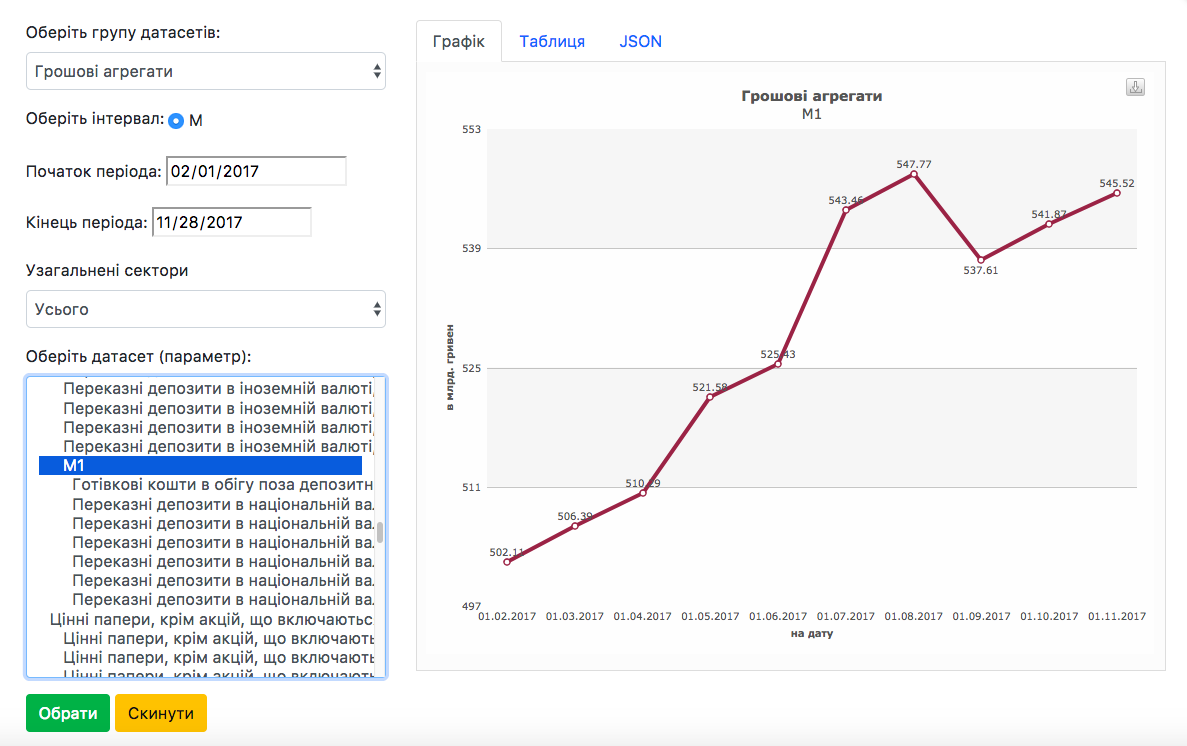
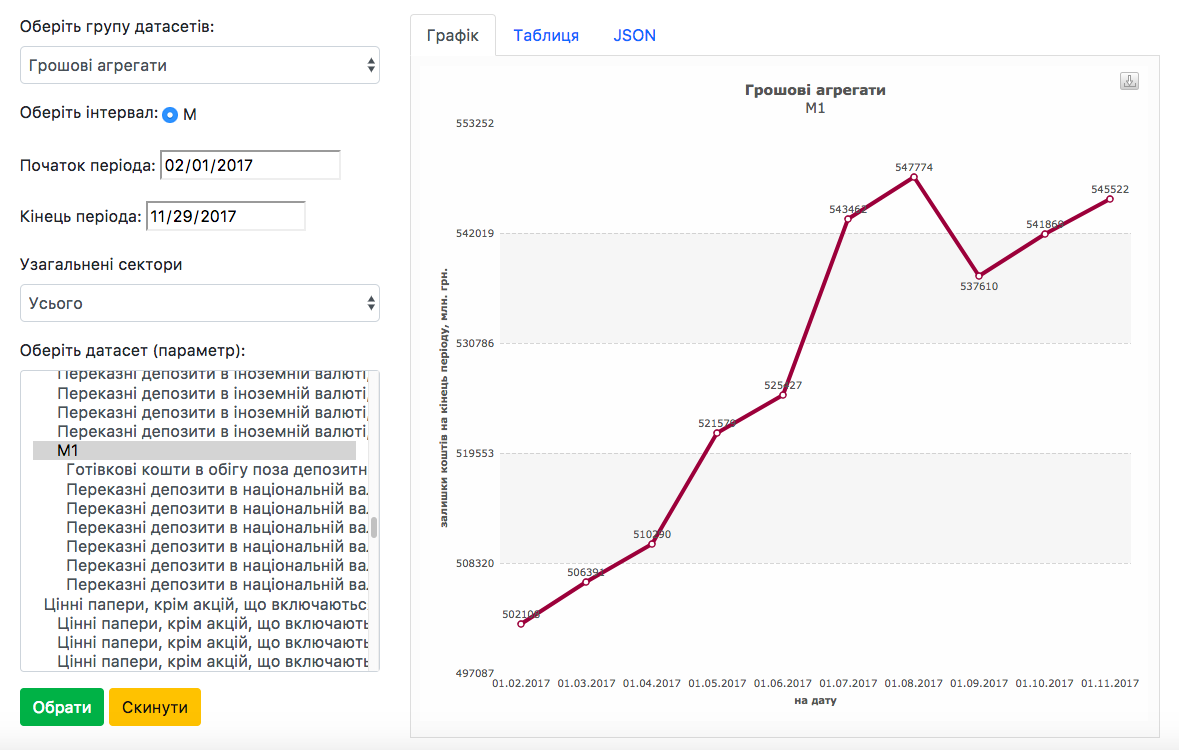
minor improvements

diff --git a/opendata-explorer/index.php b/opendata-explorer/index.php
@@ -200,7 +200,13 @@ set_time_limit(0);
 
 						// Constructing other parameters taken directly from dataset with test data
 
-						$testDate = "20171101";
+						if ($apikod == "liquidity") { //for newly added groups of datasets
+							$testDate = "20171001";
+						} else {
+							$testDate = "20170701";
+						}
+						
+						
 						/* 
 						start= and end= working normally instead of date=
 						so we use them just to get additional params
@@ -241,7 +247,7 @@ set_time_limit(0);
 							echo "<option value=\"" . $idApiParent1 . "\"";
 							if ( isset($_GET["id_api"]) ) { if ($_GET["id_api"] == $value->id_api) { echo " selected"; } }
 							echo ">";
-							echo "<b>" . $value->txt . "</b></option>";
+							echo "<b>" . trim($value->txt) . "</b></option>";
 							
 							foreach ($dataSetContentModified[2] as $key => $value) {
 
@@ -249,7 +255,7 @@ set_time_limit(0);
 								echo "<option value=\"" . $value->id_api . "\"";
 								if ( isset($_GET["id_api"]) ) { if ($_GET["id_api"] == $value->id_api) { echo " selected"; } }
 								echo ">";
-								echo "&nbsp;&nbsp;" . $value->txt . "</option>";
+								echo "&nbsp;&nbsp;" . trim($value->txt) . "</option>";
 								$idApiParent2 = $value->id_api;
 								}  else {
 									$idApiParent2 = $idApiParent1;
@@ -262,7 +268,7 @@ set_time_limit(0);
 									echo "<option value=\"" . $value->id_api . "\"";
 									if ( isset($_GET["id_api"]) ) { if ($_GET["id_api"] == $value->id_api) { echo " selected"; } }
 									echo ">";
-									echo "&nbsp;&nbsp;&nbsp;&nbsp;&nbsp;" . $value->txt . "</option>";
+									echo "&nbsp;&nbsp;&nbsp;&nbsp;&nbsp;" . trim($value->txt) . "</option>";
 									$idApiParent3 = $value->id_api;
 									} else {
 										$idApiParent3 = $idApiParent2;
@@ -275,7 +281,7 @@ set_time_limit(0);
 										echo "<option value=\"" . $value->id_api . "\"";
 										if ( isset($_GET["id_api"]) ) { if ($_GET["id_api"] == $value->id_api) { echo " selected"; } }
 										echo ">";
-										echo "&nbsp;&nbsp;&nbsp;&nbsp;&nbsp;&nbsp;&nbsp;" . $value->txt . "</option>";
+										echo "&nbsp;&nbsp;&nbsp;&nbsp;&nbsp;&nbsp;&nbsp;" . trim($value->txt) . "</option>";
 										$idApiParent4 = $value->id_api;
 										} else {
 											$idApiParent4 = $idApiParent3;
@@ -377,38 +383,51 @@ set_time_limit(0);
 				$min = min($minVal);
 		        $max = max($minVal);
 
-		        $minValChart = $min - $min/1000;
-		        $maxValChart = $max + $max/1000;
+		        $minValChart = $min - $min/100;
+		        $maxValChart = $max + $max/100;
 
 		        $yAxisMinValue = number_format($minValChart, 0, ',', '');
 		        $yAxisMaxValue = number_format($maxValChart, 0, ',', '');
 
 		        // implementing tzep
-		        $tzep = $sortArrayFinal[0]->tzep;
+		        $tzepCode = strtoupper($sortArrayFinal[0]->tzep);
 				$urlTzep = $entryPoint . "/dimension/tzep?json";
 				$dataTzep = json_decode(file_get_contents($urlTzep));
 				foreach ($dataTzep as $key => $value) {
-					if ($tzep == $value->tzep) {
-						$tzep = $value->txt;
+					if ($tzepCode == strtoupper($value->tzep)) {
+						$tzepTxt = $value->txt;
 					}
 				}
+				
+				if ($tzepCode == "T080") {
+					$chartType = "column2d";
+					$plotColor = "#1E6B7F";
+				} else {
+					$chartType = "line";
+					$plotColor = "#900C3F";
+				}
+				
 
-				$myChart = new FusionCharts("line", "myChartContainer", "100%", "80%", "myGreatChartContainer", "json",
+				$myChart = new FusionCharts($chartType, "myChartContainer", "100%", "90%", "myGreatChartContainer", "json",
 		            '{
 		                "chart": {
 		                    "caption": "' . $dataGroupName . '",
 		                    "subCaption": "' . $sortArrayFinal[0]->txt . '",
 		                    "xAxisName": "на дату",
-		                    "yAxisName": "' . $tzep . '",
+		                    "yAxisName": "' . $tzepTxt . '",
 		                    "numberPrefix": "",
 		                    "formatNumber": "0",
 		                    "formatNumberScale": "0",
-		                    "paletteColors": "#903749, #6A2C70",
+		                    "paletteColors": "' . $plotColor . '",
+		                    "divlineColor": "#999999",
+        					"divLineDashed": "1",
 		                    "bgColor": "#FCFCFC",
 		                    "canvasBgAlpha": "0",
-		                    "borderAlpha": "5",
+		                    "borderAlpha": "20",
+		                    "usePlotGradientColor": "0",
 		                    "canvasBorderAlpha": "0",
 		                    "showBorder": "0",
+		                    "showPlotBorder": "0",
 		                    "use3DLighting": "0",
 		                    "yAxisMinValue": "' . $yAxisMinValue  . '",
                     		"yAxisMaxValue": "' . $yAxisMaxValue  . '",
@@ -475,10 +494,11 @@ set_time_limit(0);
 					  <div class="tab-pane" id="profile" role="tabpanel" aria-labelledby="profile-tab">
 				';
 
-						echo "<h5>" . $dataGroupName . "</h5>";
-						echo "<h6>" . $sortArrayFinal[0]->txt . ", (" . $tzep . ")</h6>";
+						echo "<center><h5>" . $dataGroupName . "</h5>";
+						echo "<h6>" . $sortArrayFinal[0]->txt . "</h6>";
+						echo "<p>" . $tzepTxt . "</p></center>";
 
-						echo "<table class=\"table\">";
+						echo "<div class=\"table-modern\"><table class=\"table\">";
 
 						foreach ($sortArrayFinal as $key => $value) {
 
@@ -488,7 +508,7 @@ set_time_limit(0);
 							echo "</tr>";
 						}
 
-						echo "</table>";
+						echo "</table></div>";
 				
 				echo '	
 					</div>

diff --git a/opendata-explorer/includes/layout/header.php b/opendata-explorer/includes/layout/header.php
@@ -41,6 +41,10 @@
             right: 0;
             bottom: 0;
         }
+        .table-modern {
+            padding: 10px 50px 10px 50px;
+            text-align: center;
+        }
     </style>
     <!-- Developed by Artem Rumiantsev -->
     <script src="assets/js/jquery-3.2.1.slim.min.js"></script>

diff --git a/opendata-explorer/README.md b/opendata-explorer/README.md
@@ -22,21 +22,25 @@ ___________________
 
 Рекомендации по API НБУ:
 
-1. В ресурсе Statdirectory периоды просто отображают доступные интервалы между показателями "на дату". Для отображения "за период" (за месяц, квартал, год) необходимо делать дополнительные вычисления. Желательно дать возможность выбора: "на дату" - по умолчанию, "за период" - выдача модифицированных данных по запросу с параметром freq=.
+1. ~~В ресурсе Statdirectory периоды отображают доступные интервалы между показателями "на дату". Для отображения "за период" (за месяц, квартал, год) необходимо делать дополнительные вычисления.~~ Сток (Stock) или поток (Flow) можно брать из Dimension/tzep, однако необходимо дополнительно трансформировать даты в кварталы (например, 01.01.2017 - 2017Q1).
 
 2. ~~В ресурсе Dimensions необходимо проверить названия разрезов. Например, название разреза "Складові MACRO-покзників" отображается с опечаткой (пропущена буква).~~
 
 3. ~~В ресурсе Dimension/{dimension} необходимо проверить доступность и содержание разрезов. Например, разрез "Сектора економіки" odk070 недоступен. Разрез "Територія" частично дублирует "Регіони".~~
 
-4. ~~В ресурсе Statdirectory/{apikod} мы получаем массив объектов, в свойствах которых отсутствует единица измерения, соответственно не понятно это в штуках, процентах, в тысячах, млн, млрд? Это гривны или долл США? Желательно вывести эту информацию в свойствах и/или подкорректировать tzep, т.к. он у всех объектов одинаковый~~. Можно брать из tzep, однако желательно выводить отдельно единицу измерения (грн или долл, количество, проценты), а вот размерность (тыс, млн, млрд) позволить девелоперам вычислять и выводить самостоятельно, таким образом округляя цифры для более привлекательных графиков.
+4. ~~В ресурсе Statdirectory/{apikod} мы получаем массив объектов, в свойствах которых отсутствует единица измерения, соответственно не понятно это в штуках, процентах, в тысячах, млн, млрд? Это гривны или долл США? Желательно вывести эту информацию в свойствах и/или подкорректировать tzep, т.к. он у всех объектов одинаковый~~. Можно брать из tzep, однако желательно выводить отдельно единицу измерения (грн или долл, количество, проценты), а вот размерность (тыс, млн, млрд) позволить девелоперам вычислять и выводить самостоятельно, таким образом округляя цифры для более привлекательных графиков (и не округляя для таблиц).
 
 5. В ресурсе Statdirectory/{apikod}, уточняя его по id_api, start и end, получаем даты в человекочитаемом формате, а не машинном, а также в произвольном порядке. Из-за этого нужно дополнительно работать с датой, чтобы конвертировать ее из доступного DD.MM.YYYY и затем использовать функцию сортировки. Желательно даты выводить в UNIX timestamp.
+
+6. В ресурсе Statdirectory/{apikod} и Dimension/tzep не всегда совпадают значения по регистру. Например, в grossextdebt используется T071usd_7; при этом в справочнике есть T071USD_7. Не критично, решается функцией strtoupper().
 
 ___________________
 
 Скриншоты приложения: :+1:
 
-![Alt text](/opendata-explorer/ss/01.png?raw=true "Грошові агрегати - Грошова маса - Усі сектори")
+![Alt text](/opendata-explorer/ss/01.png?raw=true "Грошові агрегати - M1 - Усі сектори - Графік")
+
+![Alt text](/opendata-explorer/ss/01a.png?raw=true "Грошові агрегати - M1 - Усі сектори - Табличний вигляд")
 
 ![Alt text](/opendata-explorer/ss/02.png?raw=true "Валовий зовнішній борг - Усього")
 
